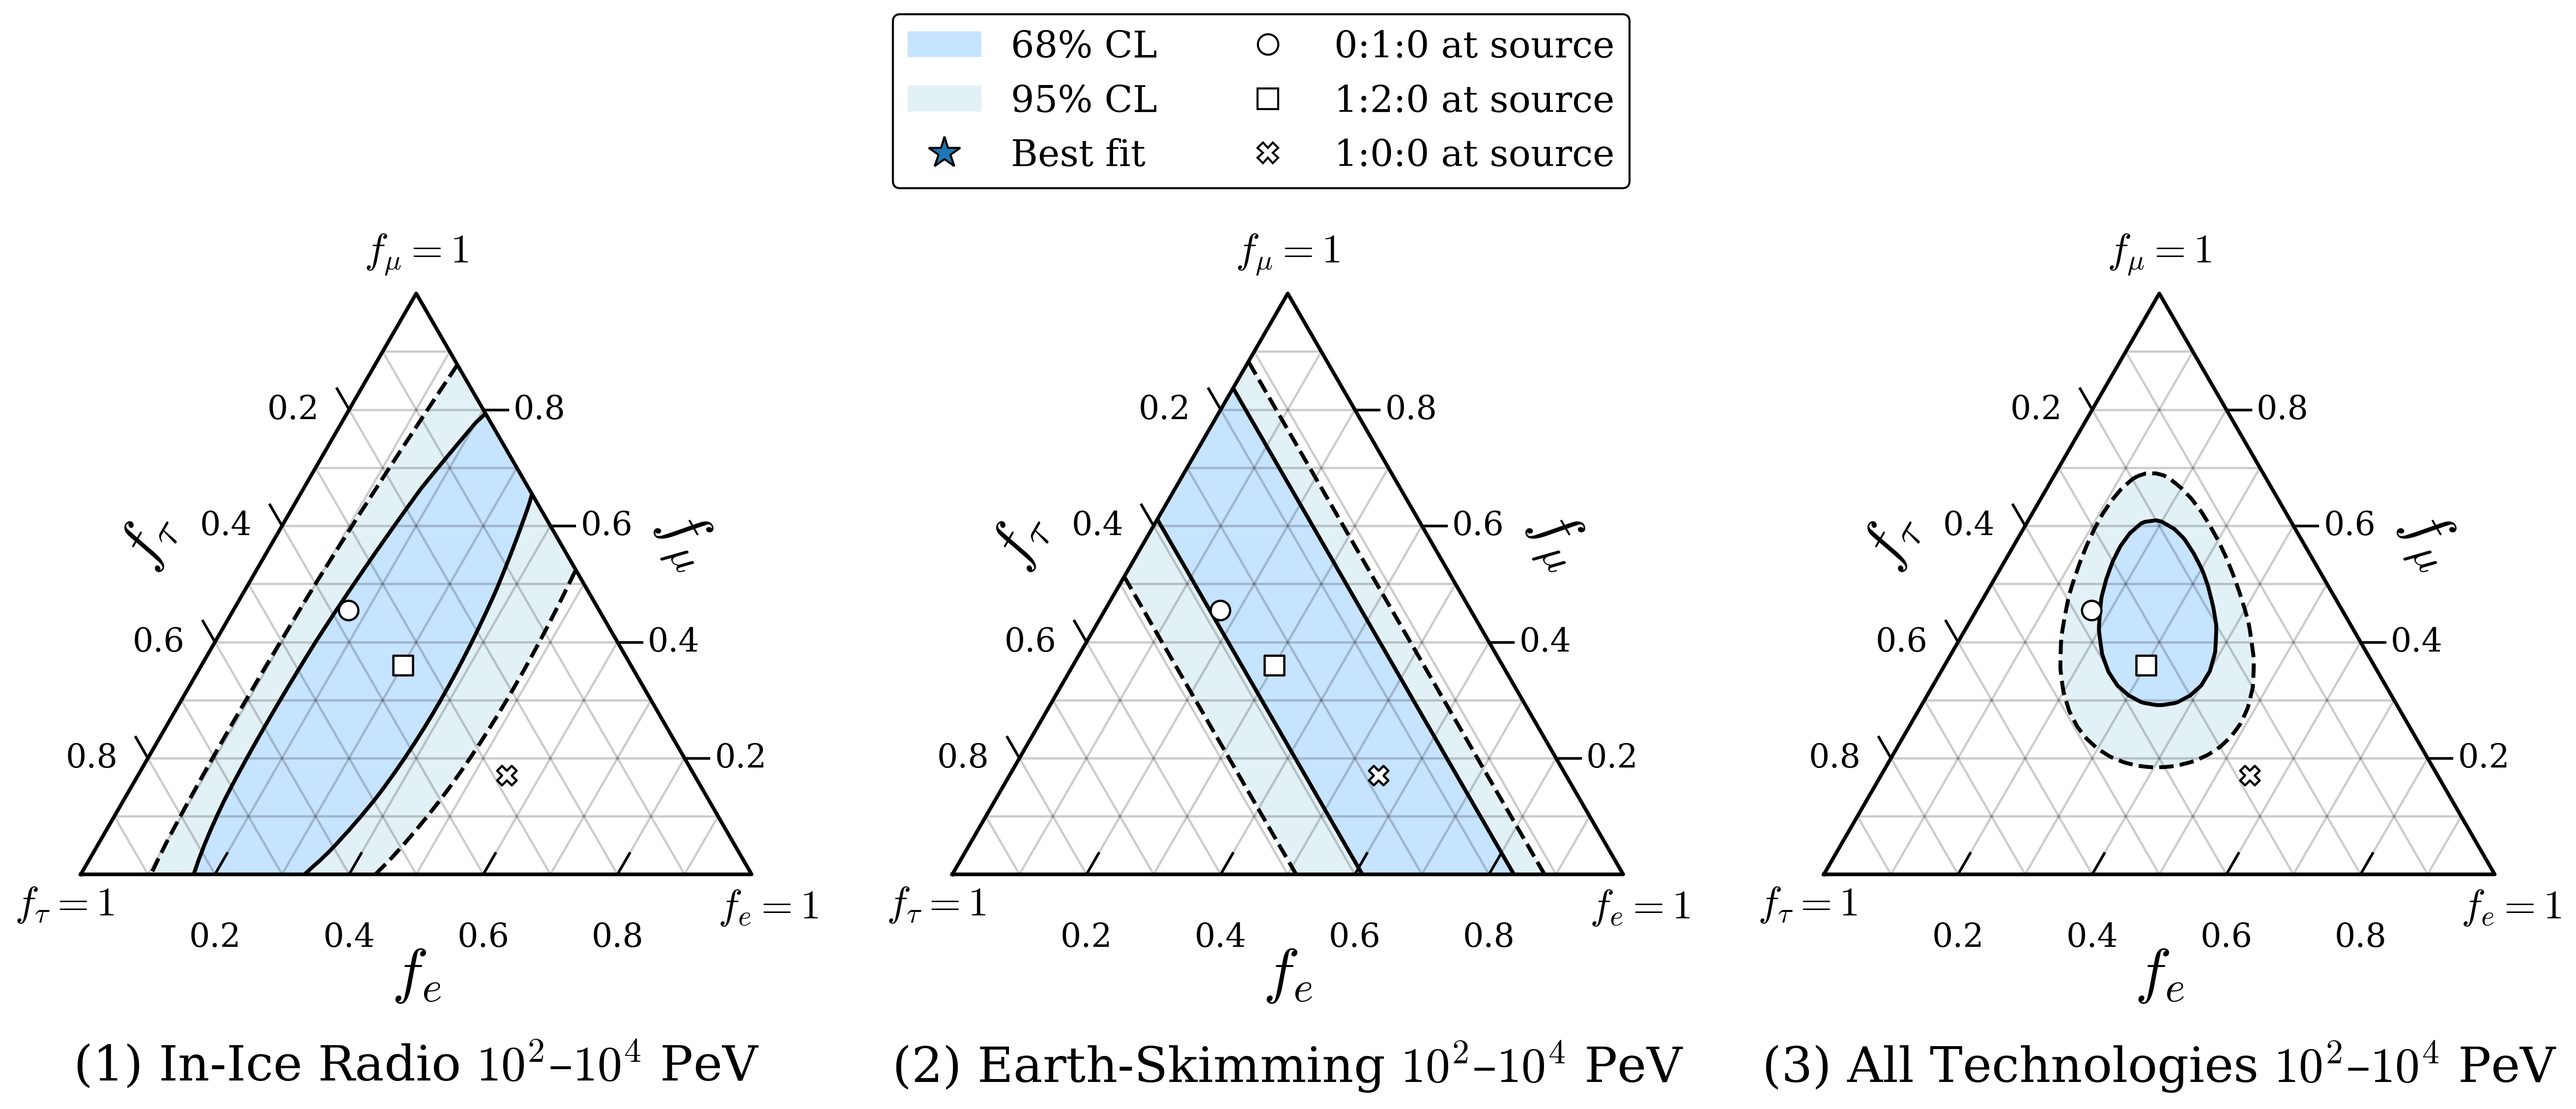
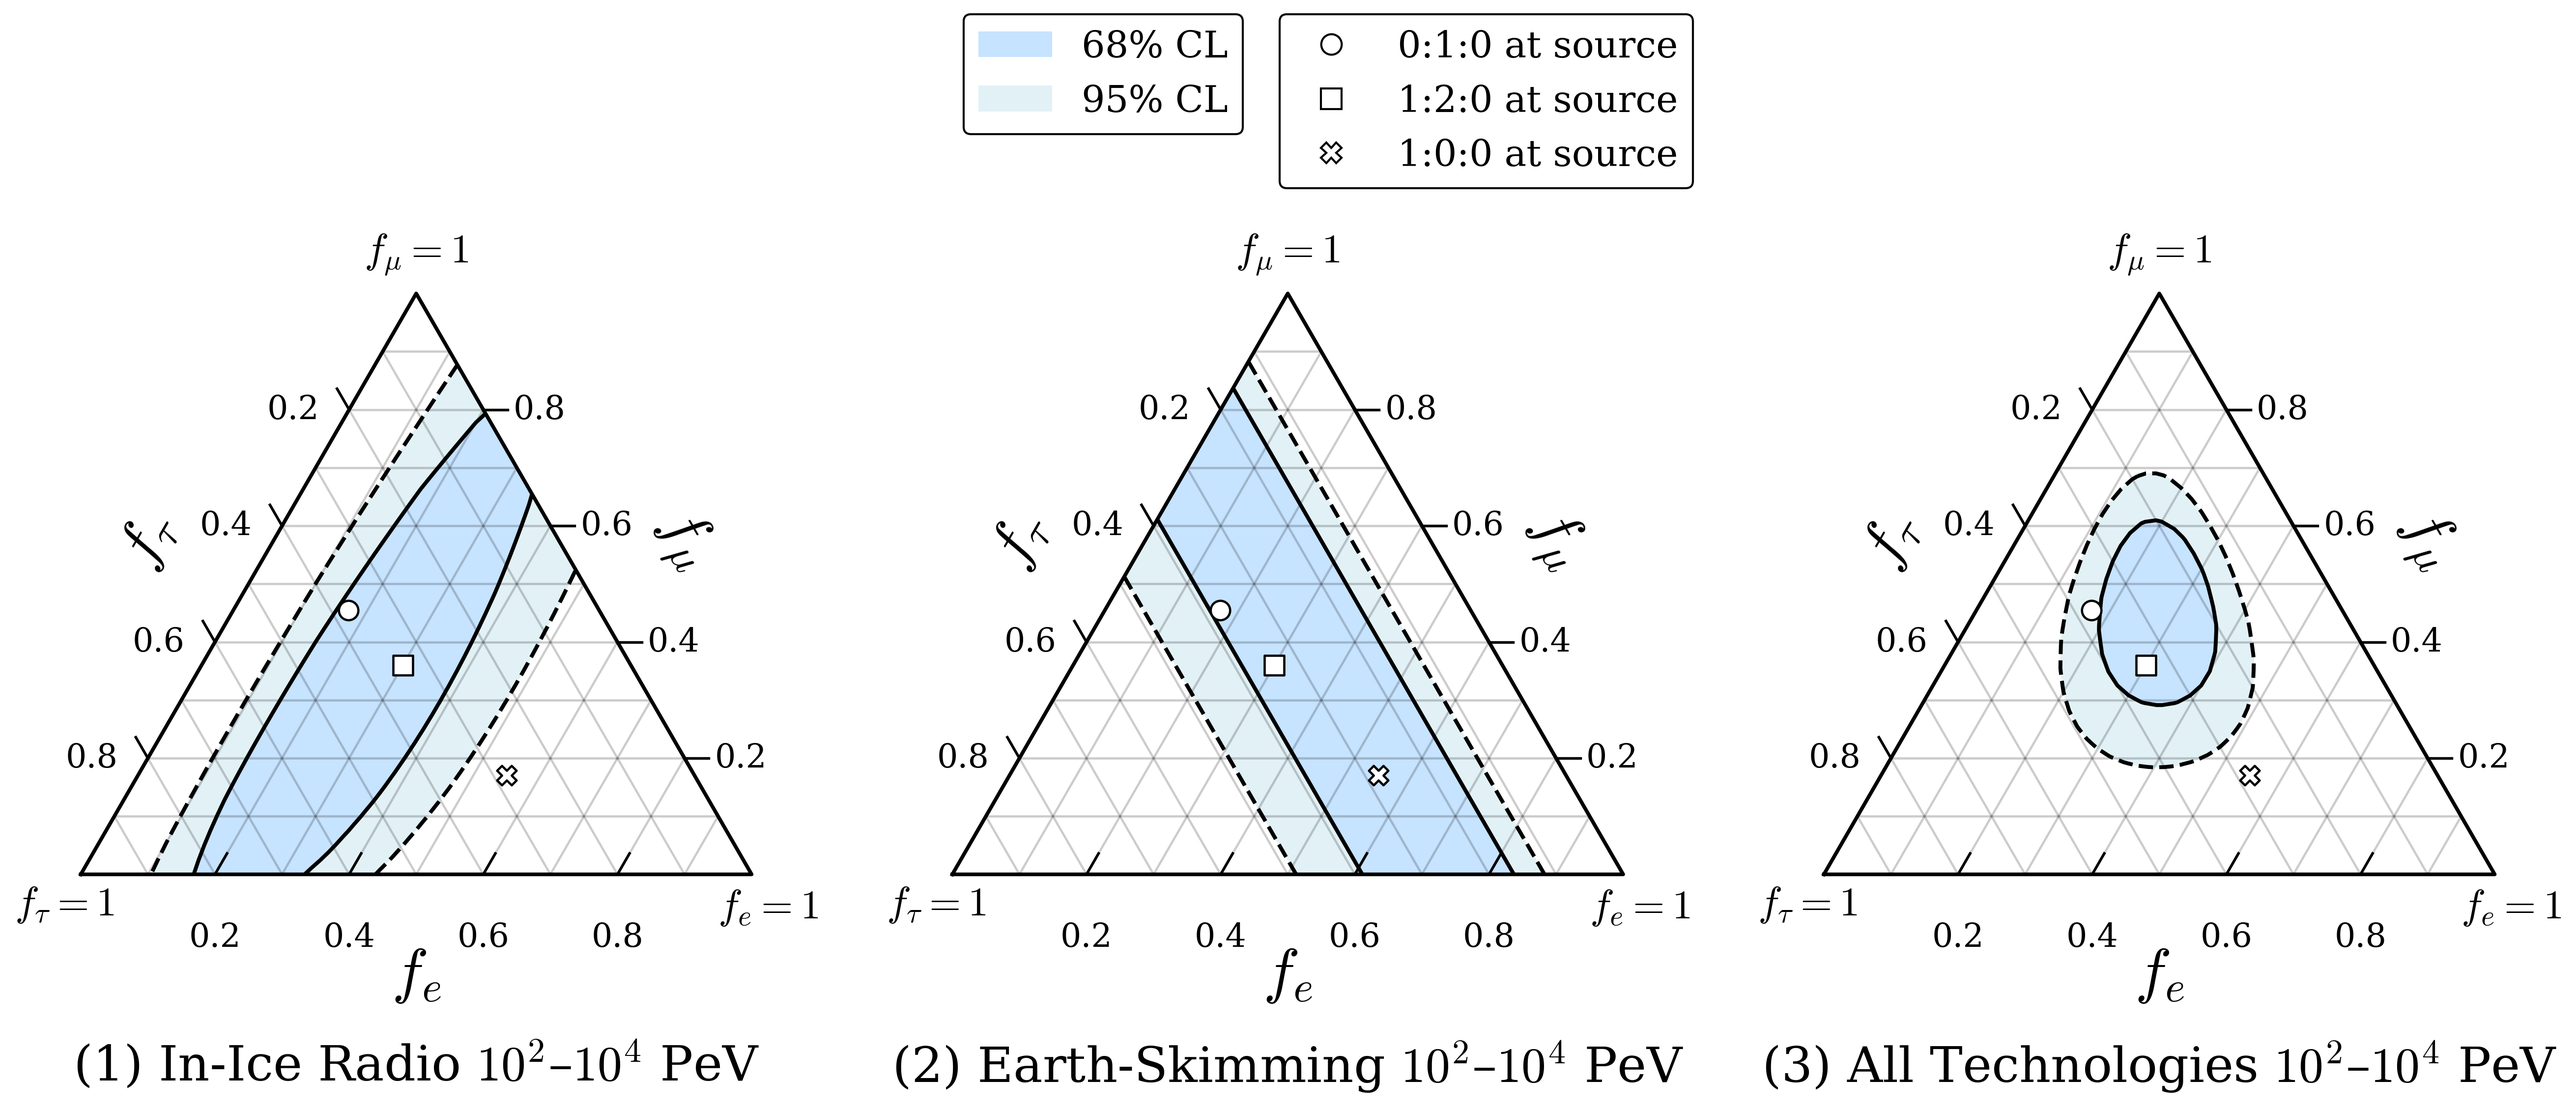
star

Changed region(s): [[0.342, 0.0, 0.653, 0.1551]]

diff --git a/3_technologies/Plotting.py b/3_technologies/Plotting.py
@@ -409,15 +409,15 @@ def plot_three_ternaries(
         axs = [axs] 
 
     levels_inc = np.sort([np.log(1.0 - 0.95), np.log(1.0 - 0.68)]) 
-    color_scheme = {"c68": "#1e90ff", "a68": 0.25, "c95": "#add8e6", "a95": 0.35}
-    # color_scheme= {"c68": "#ff69b4", "a68": 0.25, "c95": "#ffb6c1", "a95": 0.35} #pink
+    # color_scheme = {"c68": "#1e90ff", "a68": 0.25, "c95": "#add8e6", "a95": 0.35}
+    color_scheme= {"c68": "#ff69b4", "a68": 0.25, "c95": "#ffb6c1", "a95": 0.35} #pink
     # color_scheme= {"c68": "#228b22", "a68": 0.25, "c95": "#90ee90", "a95": 0.35} #green
 
     handles_top = [
         Patch(facecolor=color_scheme["c68"], edgecolor='none', alpha=color_scheme["a68"], label='68% CL'),
         Patch(facecolor=color_scheme["c95"], edgecolor='none', alpha=color_scheme["a95"], label='95% CL'),
-        Line2D([0], [0], marker='*', markersize=16, markerfacecolor='C0', markeredgecolor='black',
-               linestyle='None', label='Best fit'),
+        # Line2D([0], [0], marker='*', markersize=16, markerfacecolor='C0', markeredgecolor='black',
+        #        linestyle='None', label='Best fit'),
     ]
     handles_points = []
 
@@ -464,13 +464,17 @@ def plot_three_ternaries(
                    linestyle='None', label=_fmt_label(name, pfe, pfmu, pftau))
         )
 
-    handles_all = handles_top + handles_points
-
     fig.legend(
-        handles=handles_all,
-        loc="upper center",
+        handles=handles_top,
+        loc="upper right",
         bbox_to_anchor=(0.5, 1.04),
-        ncol=2,
+        frameon=True, fancybox=True, framealpha=0.98,
+        edgecolor="black", facecolor="white",
+    )
+    fig.legend(
+        handles=handles_points,
+        loc="upper left",
+        bbox_to_anchor=(0.5, 1.04),
         frameon=True, fancybox=True, framealpha=0.98,
         edgecolor="black", facecolor="white",
     )

diff --git a/3_technologies/Figure1.py b/3_technologies/Figure1.py
@@ -138,7 +138,7 @@ def main():
     coarse_edges = np.logspace(8, 10, int((10 - 8) / BIN_WIDTH_LOG10) + 1, base=10)
     fe0, fmu0, ftau0 = 0.30, 0.36, 0.34
 
-    energies_mid, flux_mid = build_flux_hypothesis("mid")
+    energies_mid, flux_mid = build_flux_hypothesis("low")
 
     helpers.energies_mid = energies_mid
     helpers.fluxMid = flux_mid
@@ -171,7 +171,7 @@ def main():
         ftau_arr=ftau_arr,
         captions=("(1) In-Ice Radio $10^{2}$–$10^{4}$ PeV ", "(2) Earth-Skimming $10^{2}$–$10^{4}$ PeV ", "(3) All Technologies $10^{2}$–$10^{4}$ PeV"
         ),
-        savepath="/Users/albaburgosmondejar/3_technology_paper/MC_outputs/figure122k.png",
+        savepath="/Users/albaburgosmondejar/3_technology_paper/MC_outputs/figure7c.png",
     )
 
 
